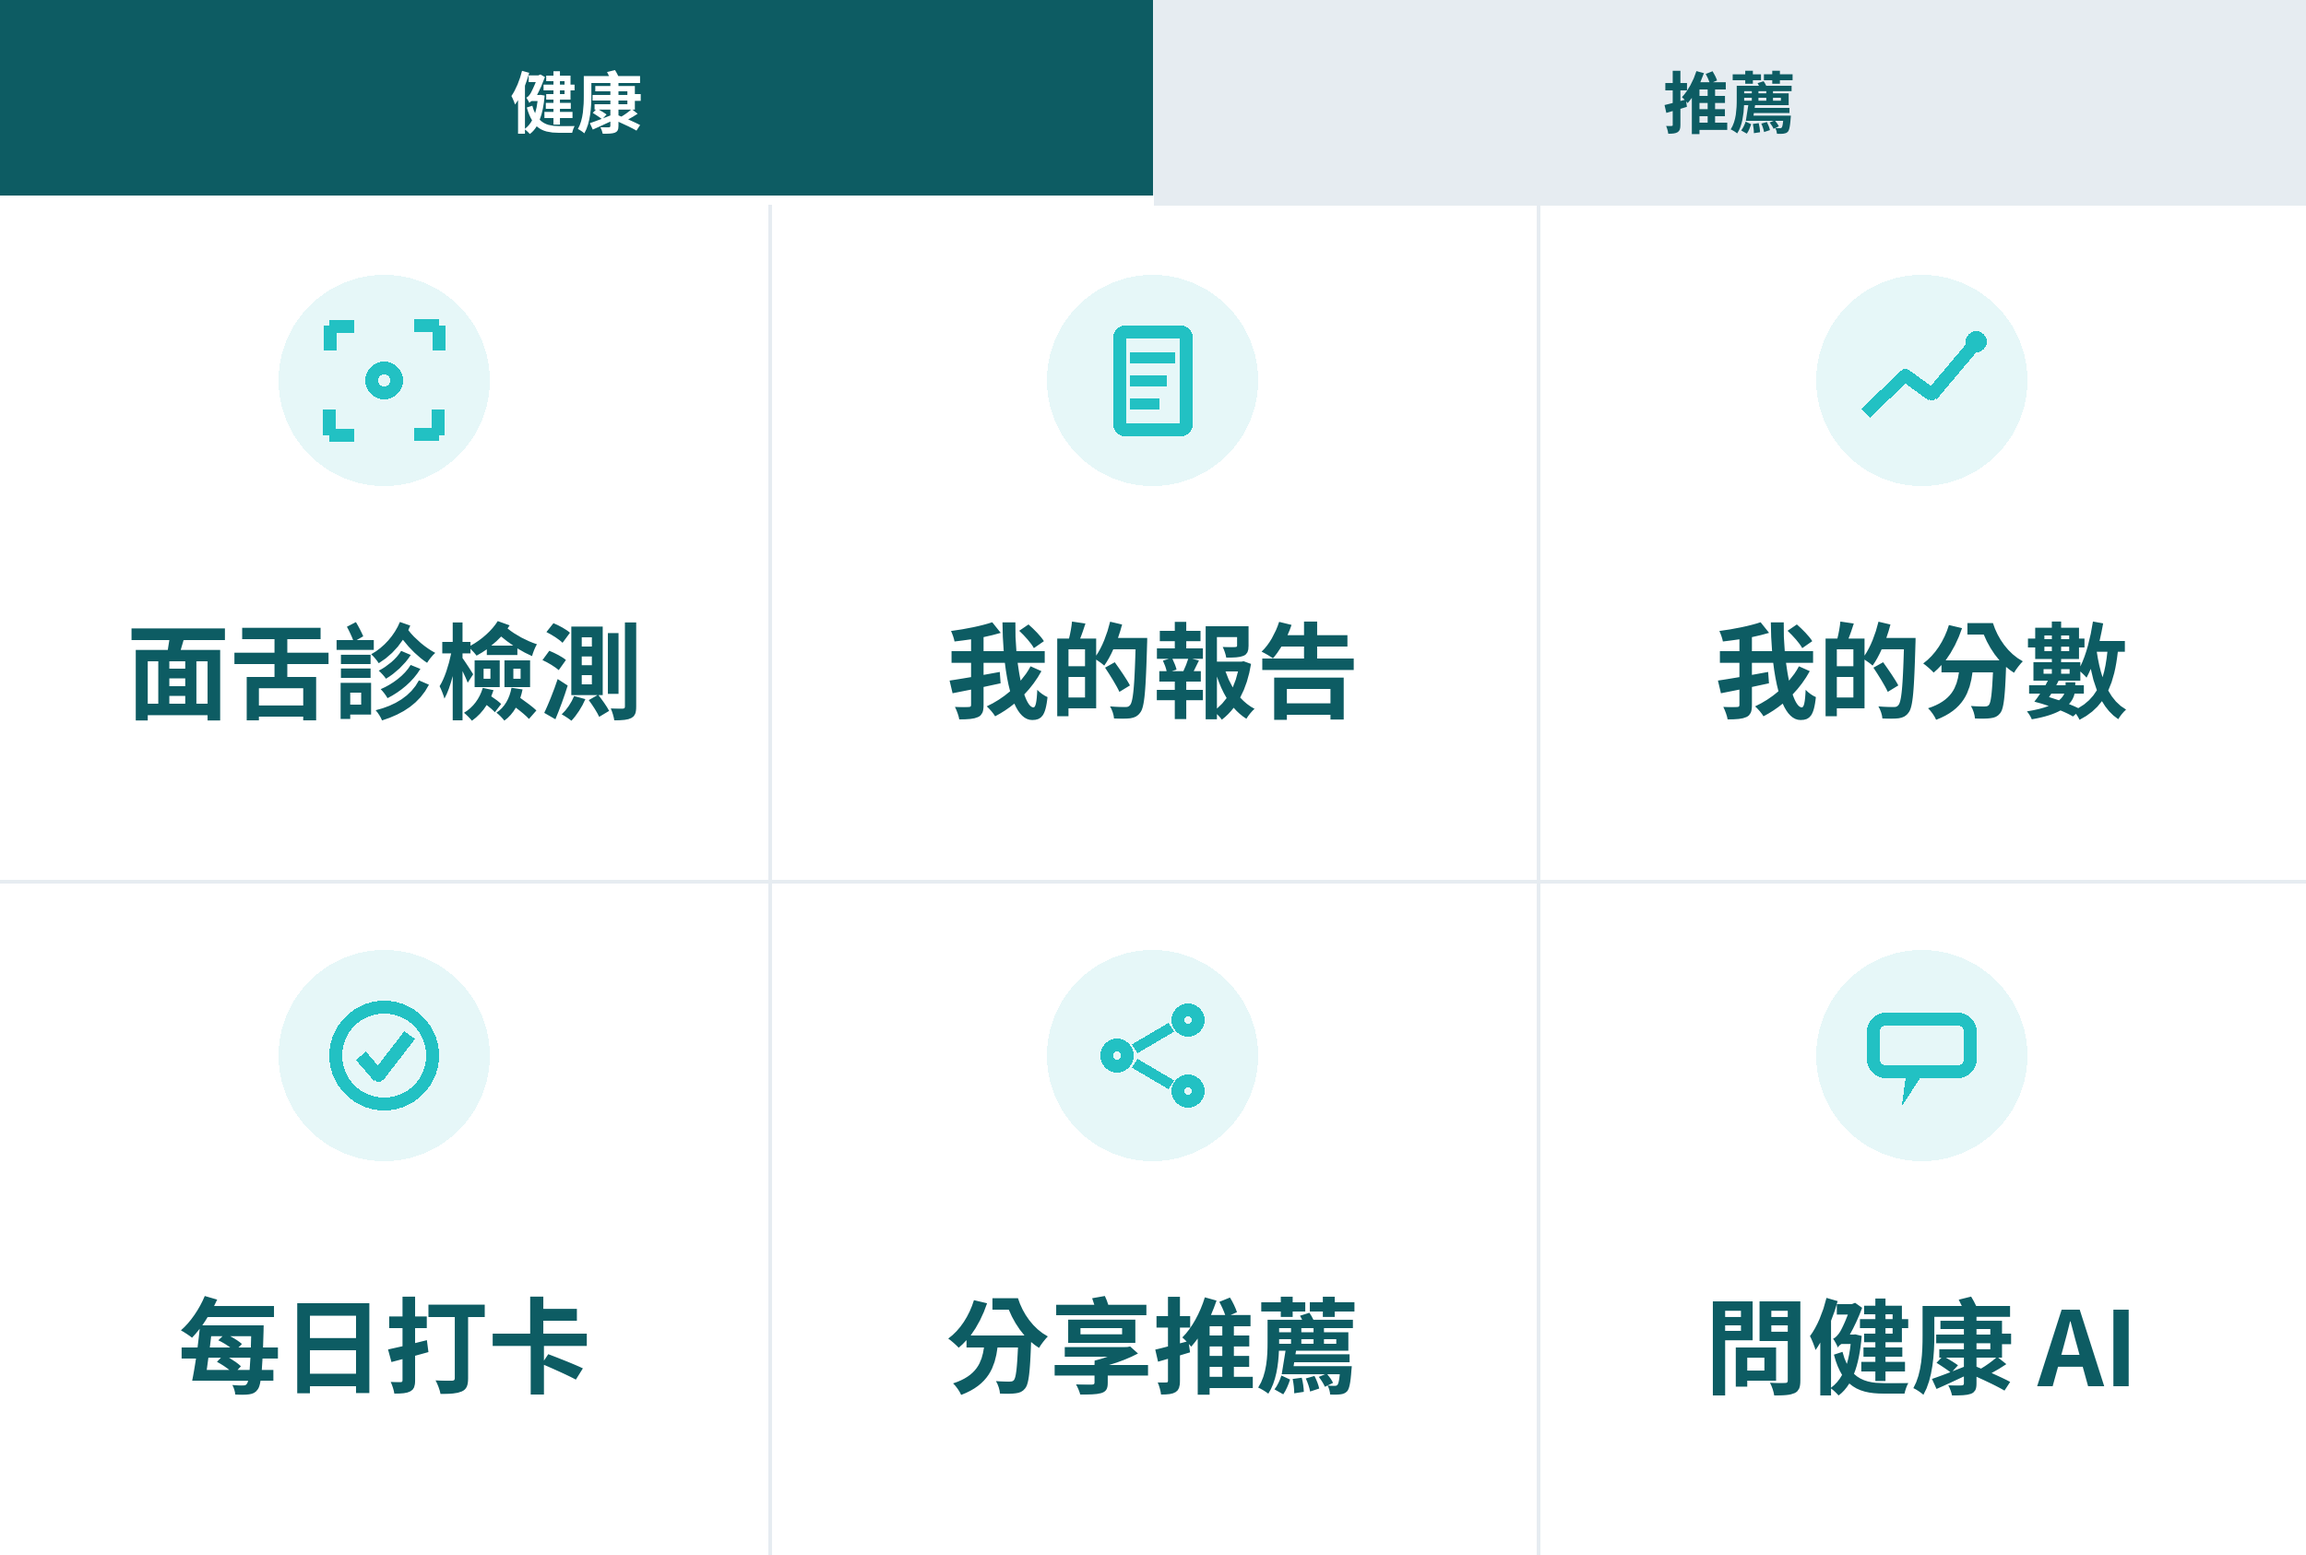
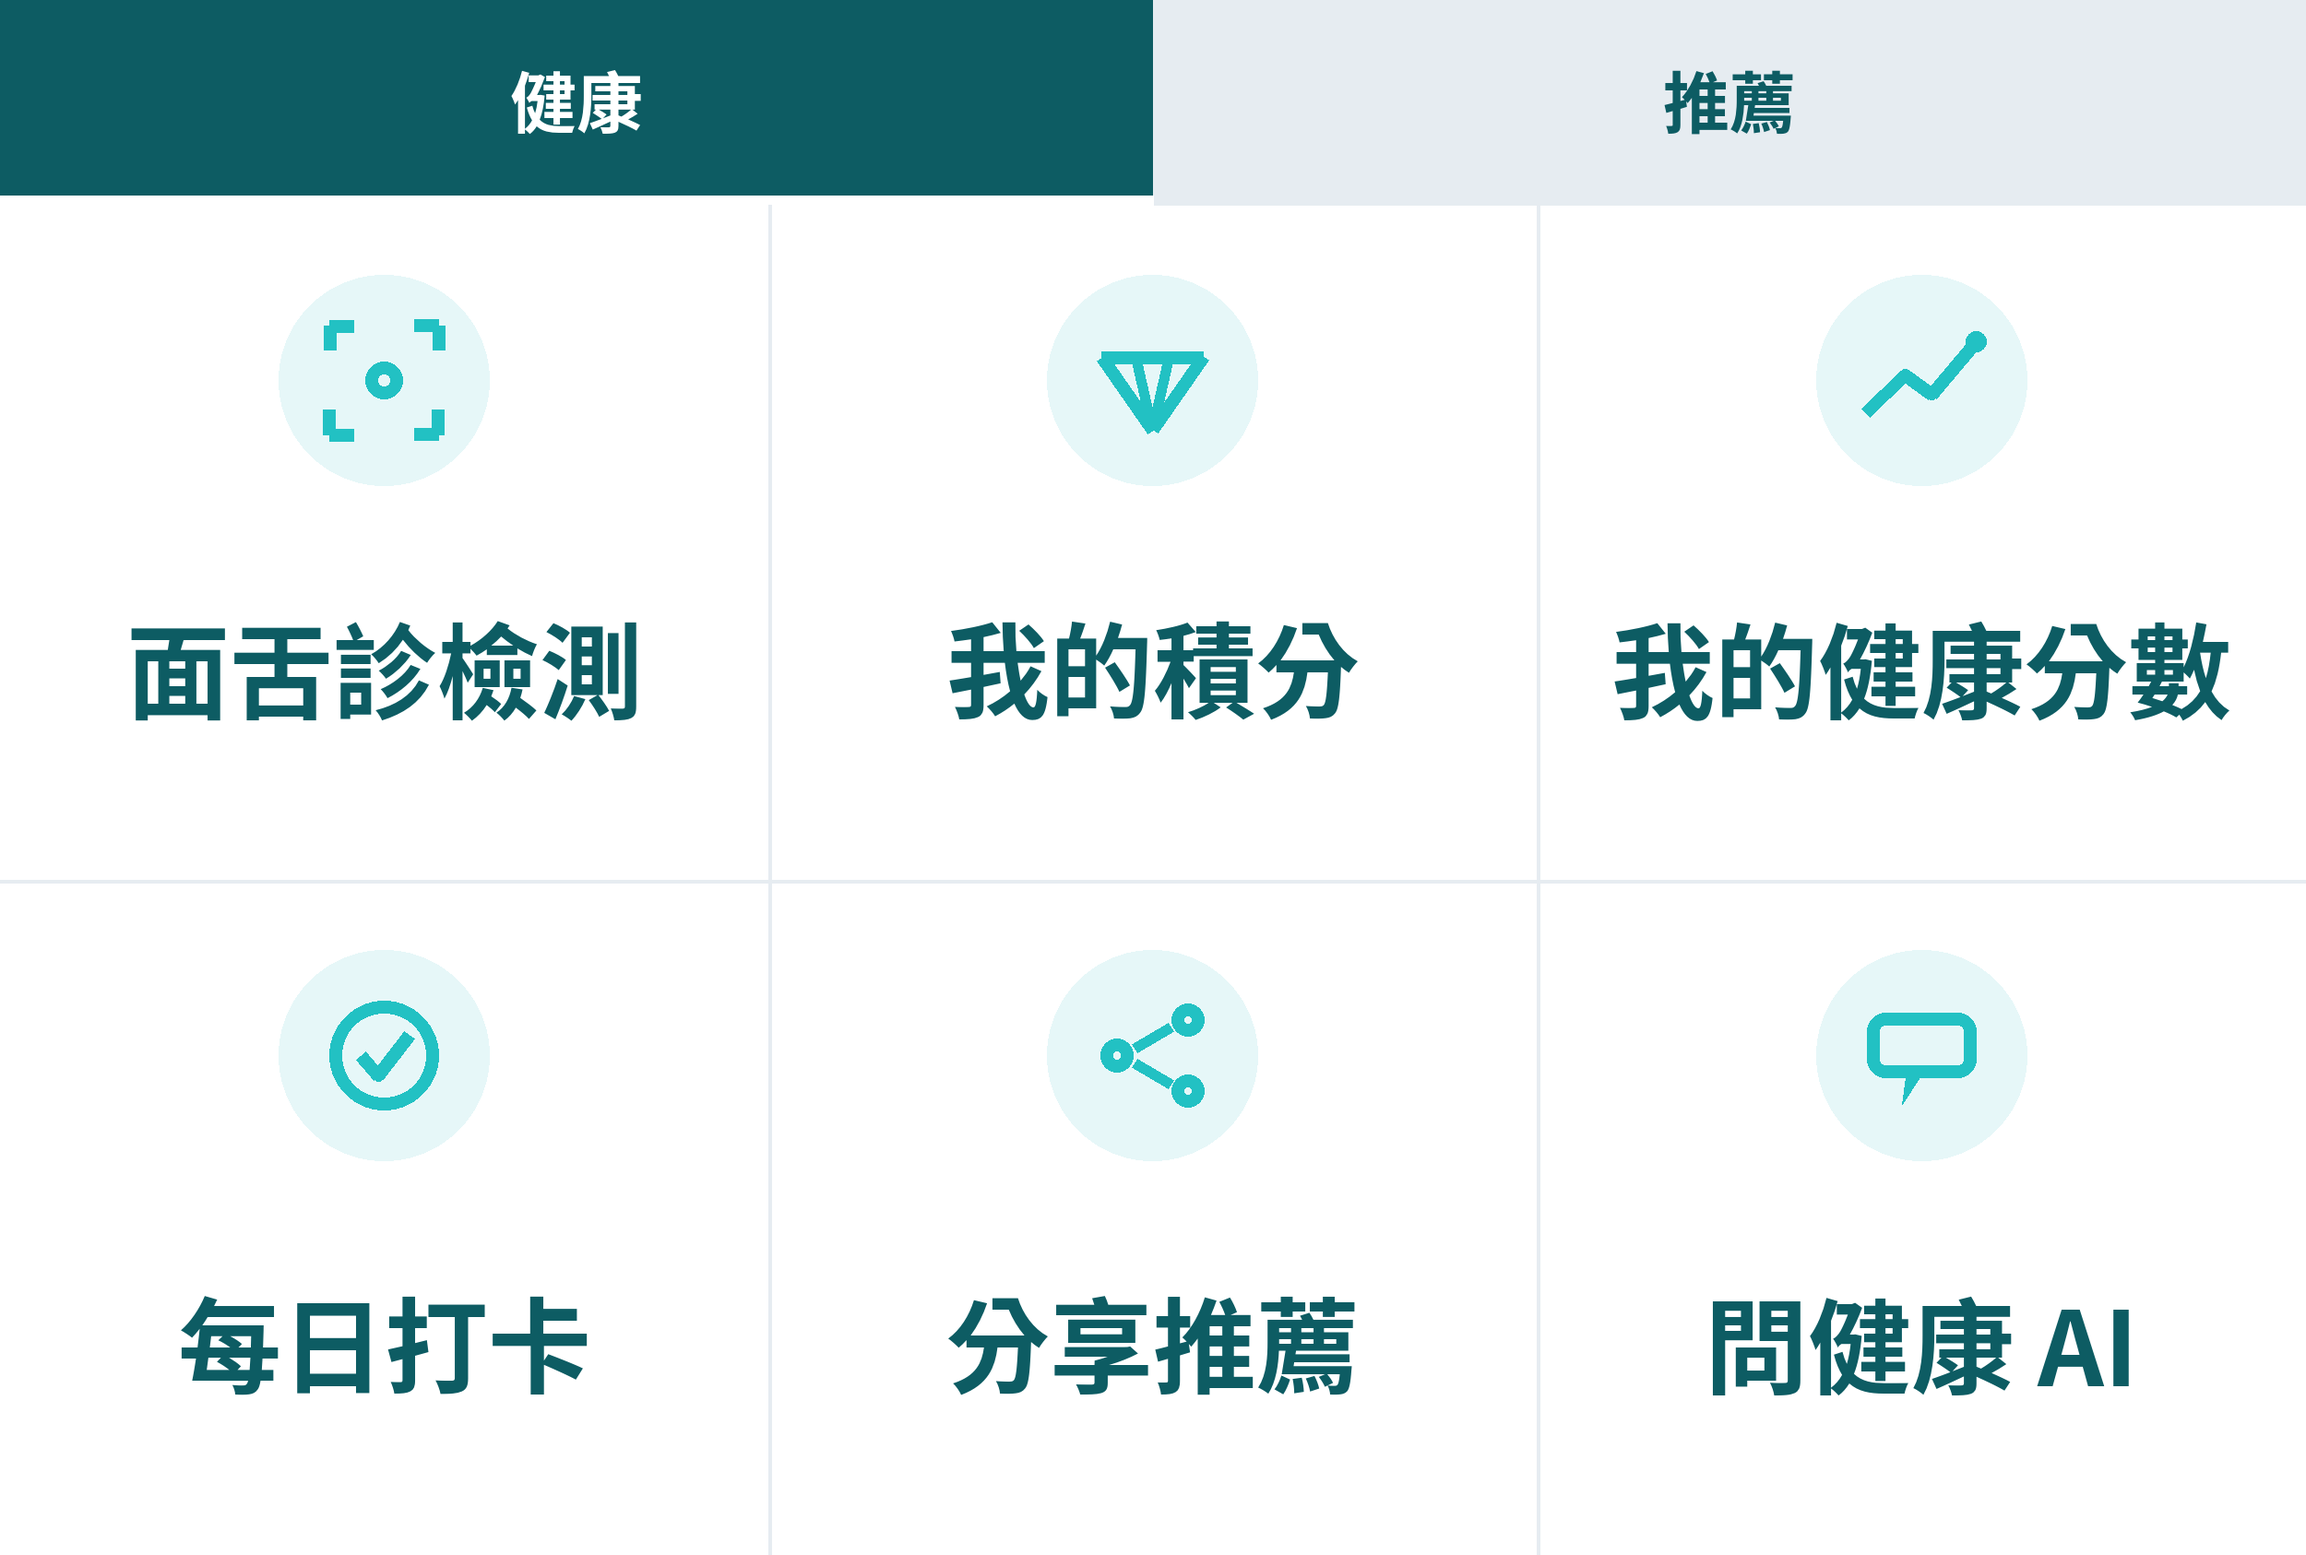
feat(line): 我的分數→我的健康分數(加看詳細報告),我的報告→我的積分
分數卡多一顆「看詳細報告」直接開完整報告頁,原本只能再測一次 ——
看到分數卻沒有路可以看細節,是斷掉的。

「我的報告」那格改成「我的積分」:顯示餘額 + 賺點的方法。賺點規則
直接讀 sb_point_rules,不寫死在程式裡,之後在後台調點數卡片會自己
跟著變,不用重新部署。

底圖新增寶石 icon(不畫成硬幣的圓中圓 —— 那個在縮圖裡會被看成
同心圓,認不出是積分)。順手加文字指令:積分。

Changed region(s): [[0.6864, 0.4009, 0.9672, 0.4626], [0.4992, 0.4009, 0.5928, 0.4626], [0.468, 0.1851, 0.5304, 0.2776]]

diff --git a/supabase/functions/line-webhook/handlers.ts b/supabase/functions/line-webhook/handlers.ts
@@ -351,8 +351,58 @@ async function latestScore(u: LineUser): Promise<LineMessage> {
     note: r.has_previous
       ? "分數是跟你自己的上一次比,不是跟別人比。"
       : "再測一次就能看出變化幅度。",
-    buttons: [{ label: "再測一次", action: uriAction("再測一次", liffUrl("page-challenge")), primary: true }],
+    buttons: [
+      { label: "看詳細報告", action: uriAction("看詳細報告", liffUrl("page-history")), tone: "deep" },
+      { label: "再測一次", action: uriAction("再測一次", liffUrl("page-challenge")), tone: "mid" },
+    ],
     altText: "我的健康分數",
+  });
+}
+
+/**
+ * 我的積分:餘額 + 怎麼賺。
+ *
+ * 賺點的方法直接讀 sb_point_rules,不寫死在程式裡 ——
+ * 之後在後台調整點數,卡片會自己跟著變,不用重新部署。
+ */
+async function myPoints(u: LineUser): Promise<LineMessage> {
+  if (!u.sb_user_id) return NEED_BIND;
+
+  const s = await rpc<{ points: number; rates: { redeem_credit: number } }>(
+    "rpc_my_reward_summary", { p_user_id: u.sb_user_id });
+  const points = s?.points ?? 0;
+  const cost   = s?.rates?.redeem_credit ?? 100;
+
+  // 只列「賺得到點」的規則;兌換與抽獎是花點的,門檻那筆不是獎勵
+  const EARN = ["invite_confirmed", "score_up_angel", "score_up_referee", "bind_angel", "daily_checkin"];
+  const rules = await select<{ rule_key: string; points: number; label: string }>(
+    "sb_point_rules",
+    `rule_key=in.(${EARN.join(",")})&select=rule_key,points,label&order=points.desc`,
+  );
+
+  const rows = rules.map((r) => ({
+    label: r.label,
+    value: `+${r.points} 點`,
+    accent: r.points >= 30,
+  }));
+
+  return infoCard({
+    title: "💎 我的積分",
+    subtitle: "積分可以換檢測次數,也可以抽獎。",
+    bigValue: String(points),
+    bigLabel: "目前積點",
+    rows,
+    note: points >= cost
+      ? `已經夠換 1 次檢測了(${cost} 點),按下面就能換。`
+      : `${cost} 點可以換 1 次檢測,還差 ${cost - points} 點。`,
+    buttons: [
+      points >= cost
+        ? { label: "用積點兌換 1 次", action: postbackAction("用積點兌換", "action=redeem_confirm&n=1"), tone: "deep" }
+        : { label: "每日打卡 +3 點", action: postbackAction("每日打卡", "action=daily_checkin"), tone: "deep" },
+      { label: "推薦或被推薦", action: postbackAction("推薦或被推薦", "action=referral_menu"), tone: "mid" },
+      { label: "兌換 / 抽獎", action: postbackAction("兌換 抽獎", "action=reward_shop"), tone: "soft" },
+    ],
+    altText: "我的積分",
   });
 }
 
@@ -566,6 +616,8 @@ export async function handlePostback(
       return await shareInvite(u);
     case "score_latest":
       return await latestScore(u);
+    case "my_points":
+      return await myPoints(u);
     case "daily_checkin":
       return await dailyCheckin(u);
     case "ask_consultant":

diff --git a/supabase/functions/line-webhook/index.ts b/supabase/functions/line-webhook/index.ts
@@ -100,6 +100,7 @@ async function handleCommand(u: LineUser, text: string): Promise<LineMessage | L
     return textMsg("把兌換碼接在後面就行,例如:兌換 1234567");
   }
 
+  if (/^(積分|我的積分)$/.test(t)) return await handlePostback(u, "my_points", new URLSearchParams());
   if (/^(積點|點數)$/.test(t)) return await handlePostback(u, "my_reward", new URLSearchParams());
   if (/^(次數|剩餘次數)$/.test(t)) return await handlePostback(u, "credits", new URLSearchParams());
   if (/^(購買次數|購買檢測次數)$/.test(t)) return await handlePostback(u, "buy_credits", new URLSearchParams());

diff --git a/scripts/line/make-richmenu-images.py b/scripts/line/make-richmenu-images.py
@@ -72,8 +72,8 @@ TABS = [
         "active": 0,
         "cells": [
             ("面舌診檢測", "scan"),
-            ("我的報告",   "doc"),
-            ("我的分數",   "chart"),
+            ("我的積分",   "coin"),
+            ("我的健康分數", "chart"),
             ("每日打卡",   "check"),
             ("分享推薦",   "share"),
             ("問健康 AI",  "chat"),
@@ -226,6 +226,15 @@ def draw_icon(d, cx, cy, r, kind):
                   outline=c, width=lw - 2)
         d.ellipse([cx + s * 0.04, cy - s * 0.92, cx + s * 0.66, cy - s * 0.44],
                   outline=c, width=lw - 2)
+    elif kind == "coin":          # 寶石:上緣一條 + 兩側斜面收到底尖 + 兩條刻面線
+        # 不畫成硬幣(圓中圓) —— 那個在縮圖裡會被看成同心圓,認不出是積分
+        top, bot = cy - s * 0.42, cy + s * 0.92
+        lx, rx = cx - s * 0.92, cx + s * 0.92
+        d.line([lx, top, rx, top], fill=c, width=lw)          # 上緣
+        d.line([lx, top, cx, bot], fill=c, width=lw)          # 左斜面
+        d.line([rx, top, cx, bot], fill=c, width=lw)          # 右斜面
+        d.line([lx + (rx - lx) / 3, top, cx, bot], fill=c, width=lw - 3)   # 刻面
+        d.line([rx - (rx - lx) / 3, top, cx, bot], fill=c, width=lw - 3)
 
 
 def build(tab):
